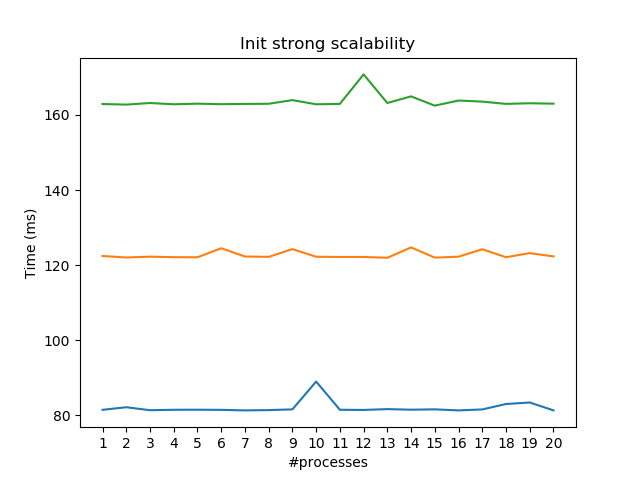
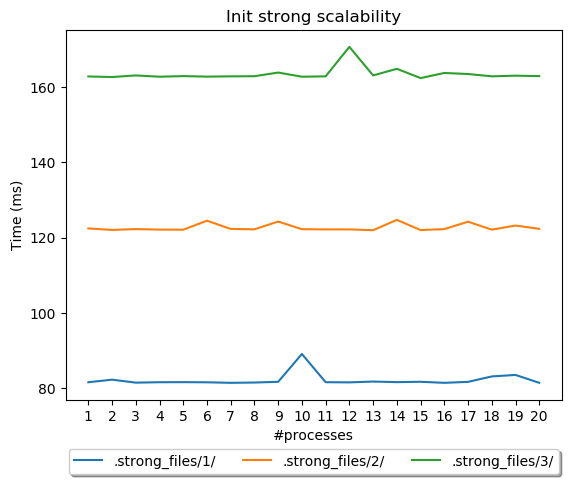
Python graphs updated with legends

diff --git a/WordscountGraphs.py b/WordscountGraphs.py
@@ -180,8 +180,8 @@ mpl.xticks(x_np)
 mpl.title("Init strong scalability")
 mpl.xlabel("#processes")
 mpl.ylabel("Time (ms)")
-mpl.legend(loc='lower center', bbox_to_anchor=(0.5, -0.25), shadow=True, ncol=5)
-mpl.savefig('figures/init_strong.png')
+legend = mpl.legend(loc='lower center', bbox_to_anchor=(0.5, -0.22), shadow=True, ncol=5)
+mpl.savefig('figures/init_strong.png', bbox_extra_artists=[legend], bbox_inches='tight')
 
 # Wordscount strong
 mpl.figure(2)
@@ -192,8 +192,8 @@ mpl.xticks(x_np)
 mpl.title("Wordscount strong scalability")
 mpl.xlabel("#processes")
 mpl.ylabel("Time (ms)")
-mpl.legend(loc='lower center', bbox_to_anchor=(0.5, -0.25), shadow=True, ncol=5)
-mpl.savefig('figures/wordscount_strong.png')
+legend = mpl.legend(loc='lower center', bbox_to_anchor=(0.5, -0.22), shadow=True, ncol=5)
+mpl.savefig('figures/wordscount_strong.png', bbox_extra_artists=[legend], bbox_inches='tight')
 
 # Global strong
 mpl.figure(3)
@@ -204,8 +204,8 @@ mpl.xticks(x_np)
 mpl.title("Global strong scalability")
 mpl.xlabel("#processes")
 mpl.ylabel("Time (ms)")
-mpl.legend(loc='lower center', bbox_to_anchor=(0.5, -0.25), shadow=True, ncol=5)
-mpl.savefig('figures/global_strong.png')
+legend = mpl.legend(loc='lower center', bbox_to_anchor=(0.5, -0.22), shadow=True, ncol=5)
+mpl.savefig('figures/global_strong.png', bbox_extra_artists=[legend], bbox_inches='tight')
 
 # Init weak
 mpl.figure(4)
@@ -216,8 +216,8 @@ mpl.xticks(x_np)
 mpl.title("Init weak scalability")
 mpl.xlabel("#processes")
 mpl.ylabel("Time (ms)")
-mpl.legend(loc='lower center', bbox_to_anchor=(0.5, -0.25), shadow=True, ncol=5)
-mpl.savefig('figures/init_weak.png')
+legend = mpl.legend(loc='lower center', bbox_to_anchor=(0.5, -0.22), shadow=True, ncol=5)
+mpl.savefig('figures/init_weak.png', bbox_extra_artists=[legend], bbox_inches='tight')
 
 # Wordscount weak
 mpl.figure(5)
@@ -228,8 +228,8 @@ mpl.xticks(x_np)
 mpl.title("Wordscount weak scalability")
 mpl.xlabel("#processes")
 mpl.ylabel("Time (ms)")
-mpl.legend(loc='lower center', bbox_to_anchor=(0.5, -0.25), shadow=True, ncol=5)
-mpl.savefig('figures/wordscount_weak.png')
+legend = mpl.legend(loc='lower center', bbox_to_anchor=(0.5, -0.22), shadow=True, ncol=5)
+mpl.savefig('figures/wordscount_weak.png', bbox_extra_artists=[legend], bbox_inches='tight')
 
 # Global weak
 mpl.figure(6)
@@ -240,5 +240,5 @@ mpl.xticks(x_np)
 mpl.title("Global weak scalability")
 mpl.xlabel("#processes")
 mpl.ylabel("Time (ms)")
-mpl.legend(loc='lower center', bbox_to_anchor=(0.5, -0.25), shadow=True, ncol=5)
-mpl.savefig('figures/global_weak.png')
+legend = mpl.legend(loc='lower center', bbox_to_anchor=(0.5, -0.22), shadow=True, ncol=5)
+mpl.savefig('figures/global_weak.png', bbox_extra_artists=[legend], bbox_inches='tight')
